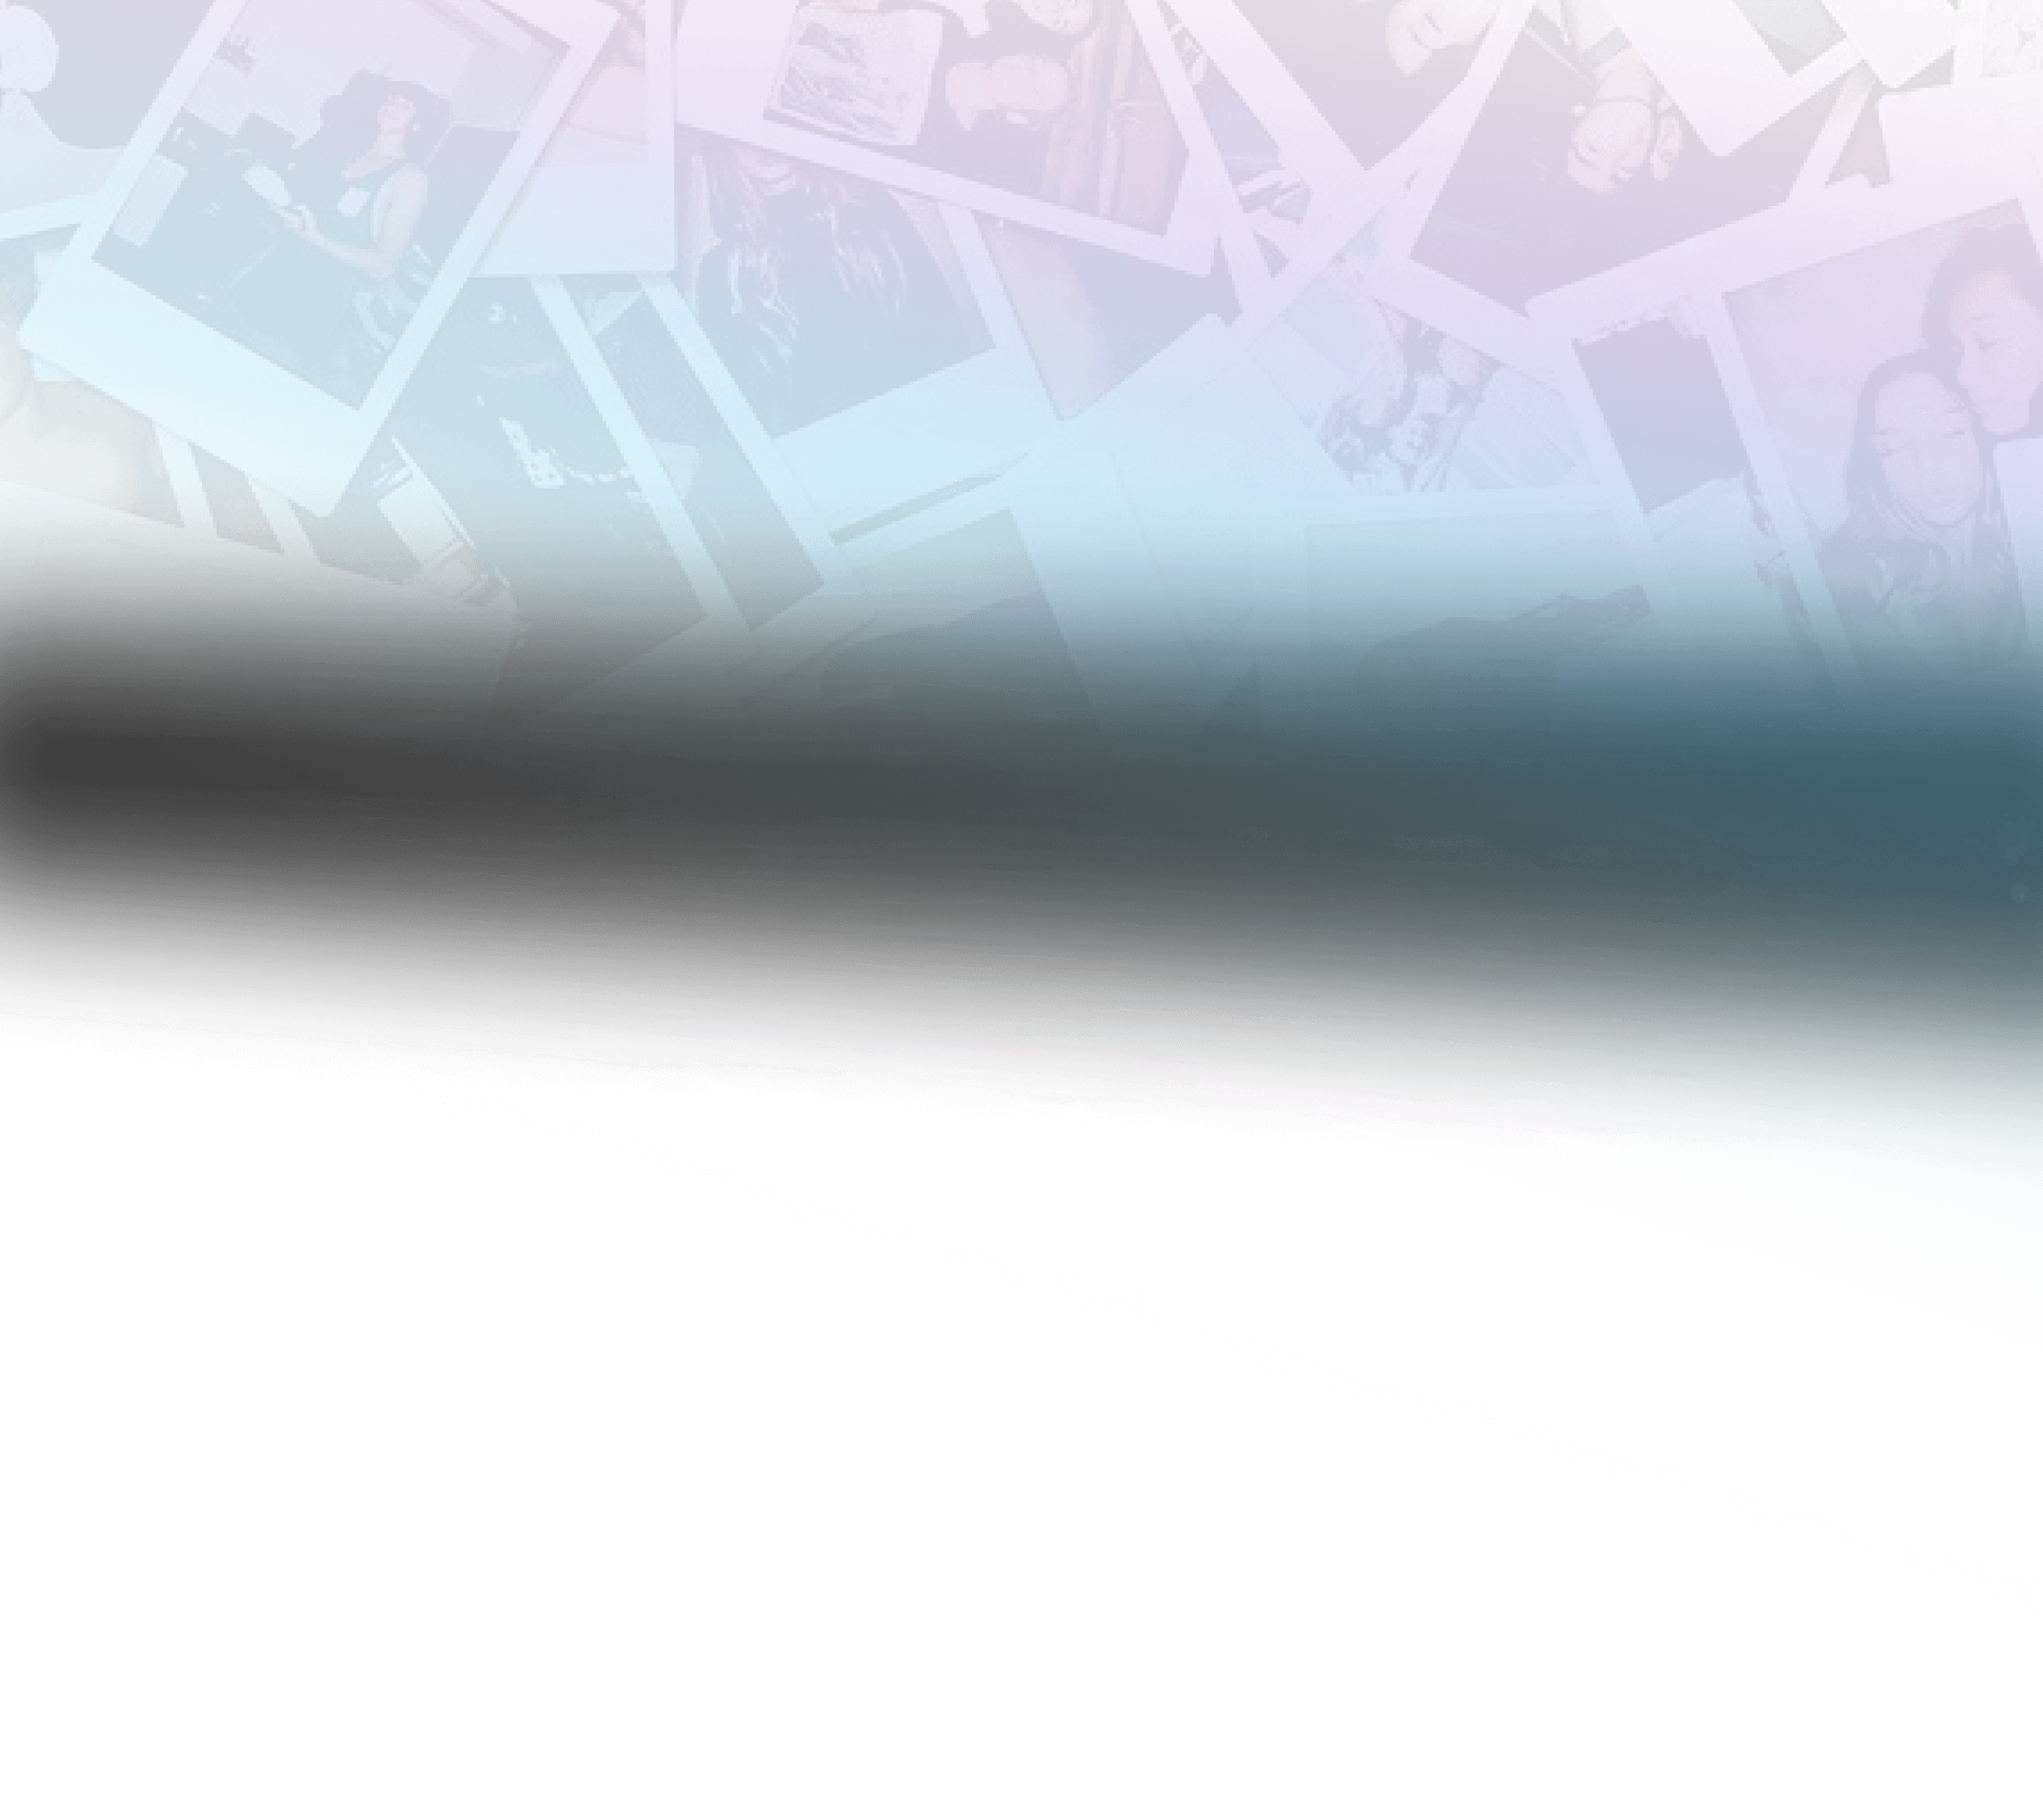
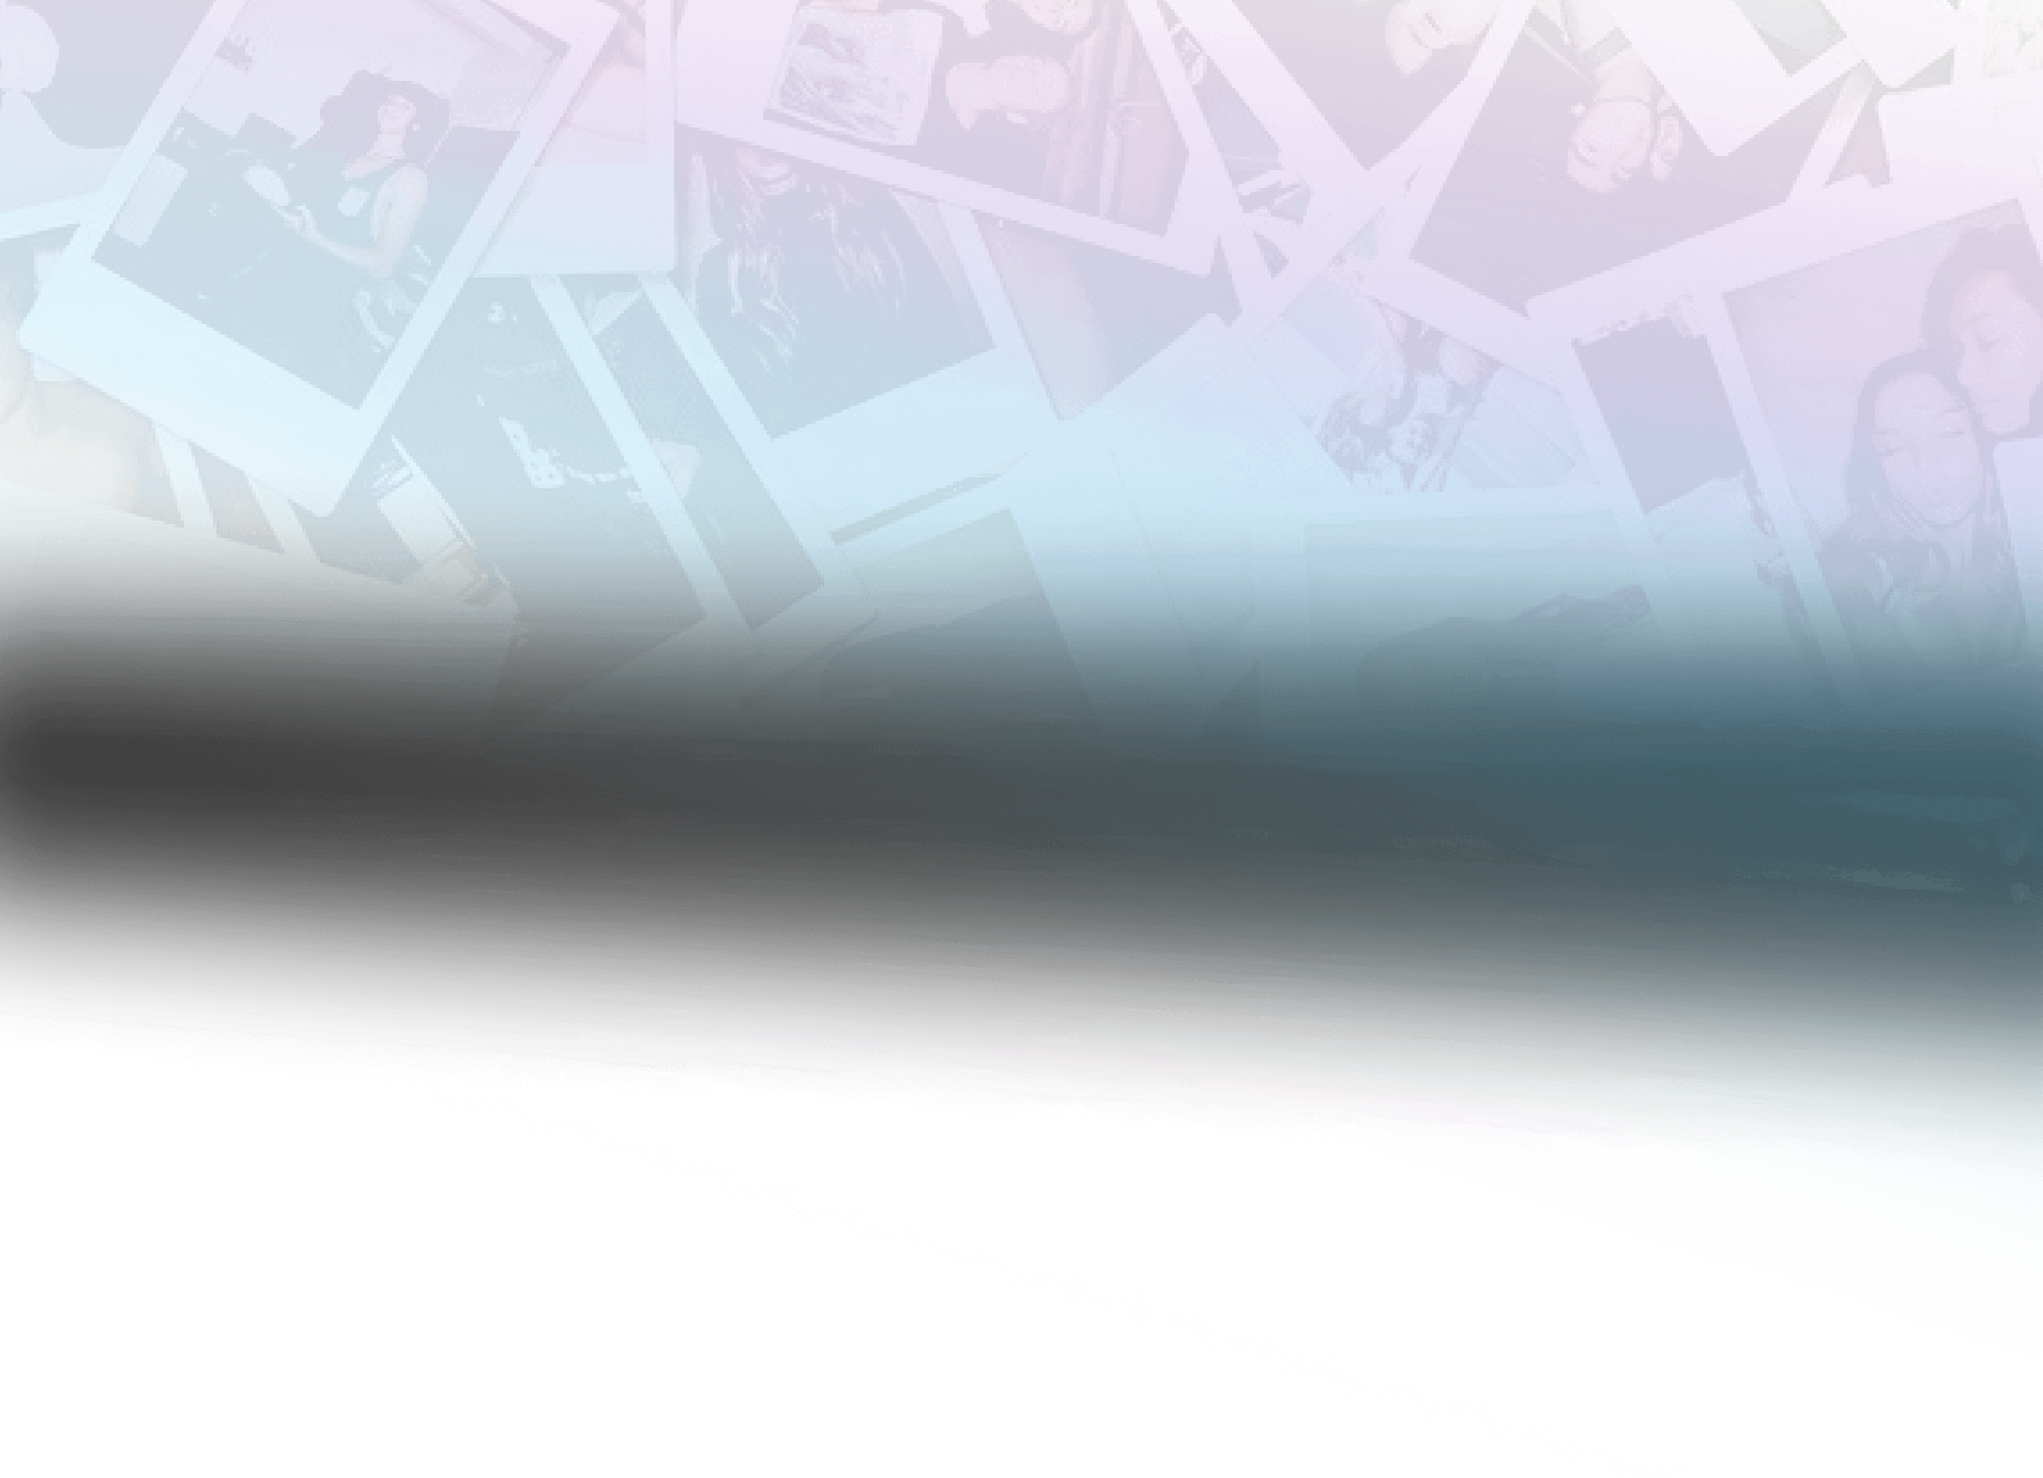
refactor

diff --git a/src/App.tsx b/src/App.tsx
@@ -1,4 +1,4 @@
-import React, { useState } from 'react'
+import React, { useState, useEffect } from 'react'
 import './App.css'
 import Header from './components/Header/Header'
 import PageIntro from './components/PageIntro/PageIntro'
@@ -27,7 +27,8 @@ import {
   appBotImage,
 } from './utils/appStyles'
 import PopupWithImage from './components/PopupWithImage/PopupWithImage'
-import pageLogotest from './images/backtest.png'
+import pageLogoTest from './images/backtest.png'
+import pageTest from './images/testtest.png'
 
 interface IContactData {
   [key: string]: string
@@ -55,6 +56,22 @@ export function App() {
   const [isPopupFormOpen, setIsPopupFormOpen] = useState(false)
   const [isPopupImageOpen, setIsPopupImageOpen] = useState(false)
   const [selectedImage, setSelectedImage] = useState({})
+  const [backgroundImageSize, setBackgroundImageSize] = useState(true)
+
+  function backgroundImageCheck() {
+    const displaySize = window.innerWidth
+    if (displaySize > 600) {
+      setBackgroundImageSize(true)
+    } else if (displaySize < 600) {
+      setBackgroundImageSize(false)
+    }
+  }
+
+  useEffect(() => {
+    setTimeout(() => {
+      window.addEventListener('resize', backgroundImageCheck)
+    }, 800)
+  })
 
   function handlePopupCallOpen() {
     setIsPopupCallOpen(true)
@@ -96,7 +113,11 @@ export function App() {
       <CssBaseline />
       <Container sx={appContainerStyle}>
         <Box sx={appBoxStyle}>
-          <img src={pageLogotest} style={appTopImage} alt="back" />
+          {backgroundImageSize ? (
+            <img src={pageLogoTest} style={appTopImage} alt="back" />
+          ) : (
+            <img src={pageTest} style={appTopImage} alt="back" />
+          )}
         </Box>
 
         <Header onPopupCallClick={handlePopupCallOpen} />

diff --git a/src/utils/appStyles.ts b/src/utils/appStyles.ts
@@ -16,17 +16,21 @@ const appBoxStyle = {
   height: '600px',
   zIndex: '-1',
   '@media (max-width:600px)': {
-    height: '400px',
+    height: '500px',
   },
 }
 
 const appTopImage = {
   width: '100%',
-  height: '270%',
-  opacity: '0.8',
-  filter: 'blur(2px) brightness(0.8)',
+  height: '150%',
+  opacity: '1',
+  filter: 'blur(1px) brightness(1)',
   zIndex: '-3',
-  // boxShadow: '0px 25px 0px -2px grey',
+  overflow: 'hidden',
+  '@media (max-width:600px)': {
+    width: '150%',
+    height: '200%',
+  },
 }
 
 const appBotImage = {
@@ -37,7 +41,6 @@ const appBotImage = {
   right: '0',
   bottom: '0',
   zIndex: '-2',
-  // boxShadow: '0px 25px 0px -2px grey',
 }
 
 const imageModuleStyles = {

diff --git a/src/components/PageExplanations/PageExplanationsStyles.ts b/src/components/PageExplanations/PageExplanationsStyles.ts
@@ -53,7 +53,7 @@ const numberStyle = {
     '-7px 0 10px #e60073, 0 7px 10px #e60073, 7px 0 10px #e60073, 0 -7px 10px #e60073',
 }
 
-const explanationDivisionStyle = 1
+const explanationDivisionStyle = 3
 
 const explanationSpacing = 0.5
 
